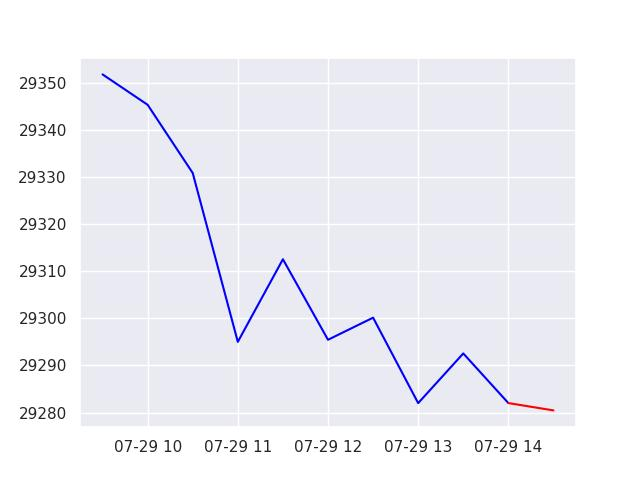
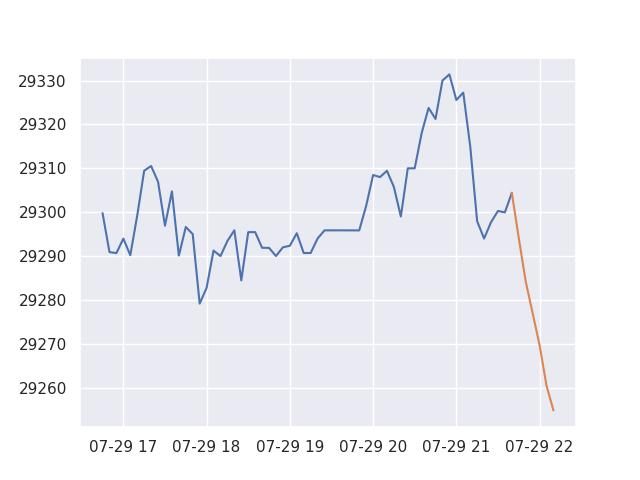
there is a bug (always descending)

diff --git a/handlers/handlers.py b/handlers/handlers.py
@@ -48,6 +48,17 @@ async def show_prices_text_old(current,msg:Message, count,hour=0.5):
         plot_2 = sns.lineplot(x = pd.to_datetime(lags.iloc[-2:].index), y = lags.iloc[-2:], color='red')
         plot_2.figure.savefig('fig_old.jpg')
 
+async def show_prices(y,msg: Message, count):
+    sns.set()
+    message = f'Курс BTC-USD за прошлые {count/12} часов:\n'
+    for j,i in enumerate(reversed(y.iloc[-count-6:-6].index)):
+        if j%6==0:
+            message+=f'Курс за {str(i)}: {y[i]}\n'
+    await msg.answer(message)
+    sns.lineplot(y.iloc[-6-count:-6])
+    plot_2 = sns.lineplot(y.iloc[-7:])
+    plot_2.figure.savefig('fig.jpg')
+
 
 
 @router.message(Command(commands=['get_old']))
@@ -65,9 +76,10 @@ async def rate(msg: Message):
 async def rate_new(msg: Message):
     await msg.answer('Собираю и обрабатываю данные...')
     start = dt.datetime.now()
-    extract_data()
+    y=extract_data()
     end = dt.datetime.now()
     await msg.answer('Затратилось времени на сбор данных: '+str(end-start))
+    await show_prices(y,msg,12*5)
 
 
 
@@ -92,6 +104,11 @@ async def visualize(msg: Message):
     photo=FSInputFile('fig_old.jpg')
     await msg.answer_photo(photo)
 
+
+@router.message(Command(commands=['visualize']))
+async def visualize(msg: Message):
+    photo=FSInputFile('fig.jpg')
+    await msg.answer_photo(photo)
 
 
 @router.message(Command(commands=['settings']))

diff --git a/model_upgrade.py b/model_upgrade.py
@@ -6,6 +6,7 @@ from config import SECRET_KEY, API_KEY
 from sklearn.linear_model import Lasso, Ridge, LinearRegression
 from sklearn.ensemble import RandomForestRegressor
 
+
[2 lines of base64/hex data omitted]
 client = Client(api_key, secret_key)
@@ -163,9 +164,11 @@ def extract_data():
             X_new[f'lag_{i}'] = [y.iloc[-i]]
         return X_new
 
+    print(y.tail(10))
     for i in range(6):
         X_new = get_new(X,y,y_df30)
         y_new = pd.Series(best_model.predict(X_new),index=[y.index[-1]+dt.timedelta(minutes=5)])
         X=pd.concat([X,X_new])
         y=pd.concat([y,y_new])
+    print(y.tail(10))
     return y
